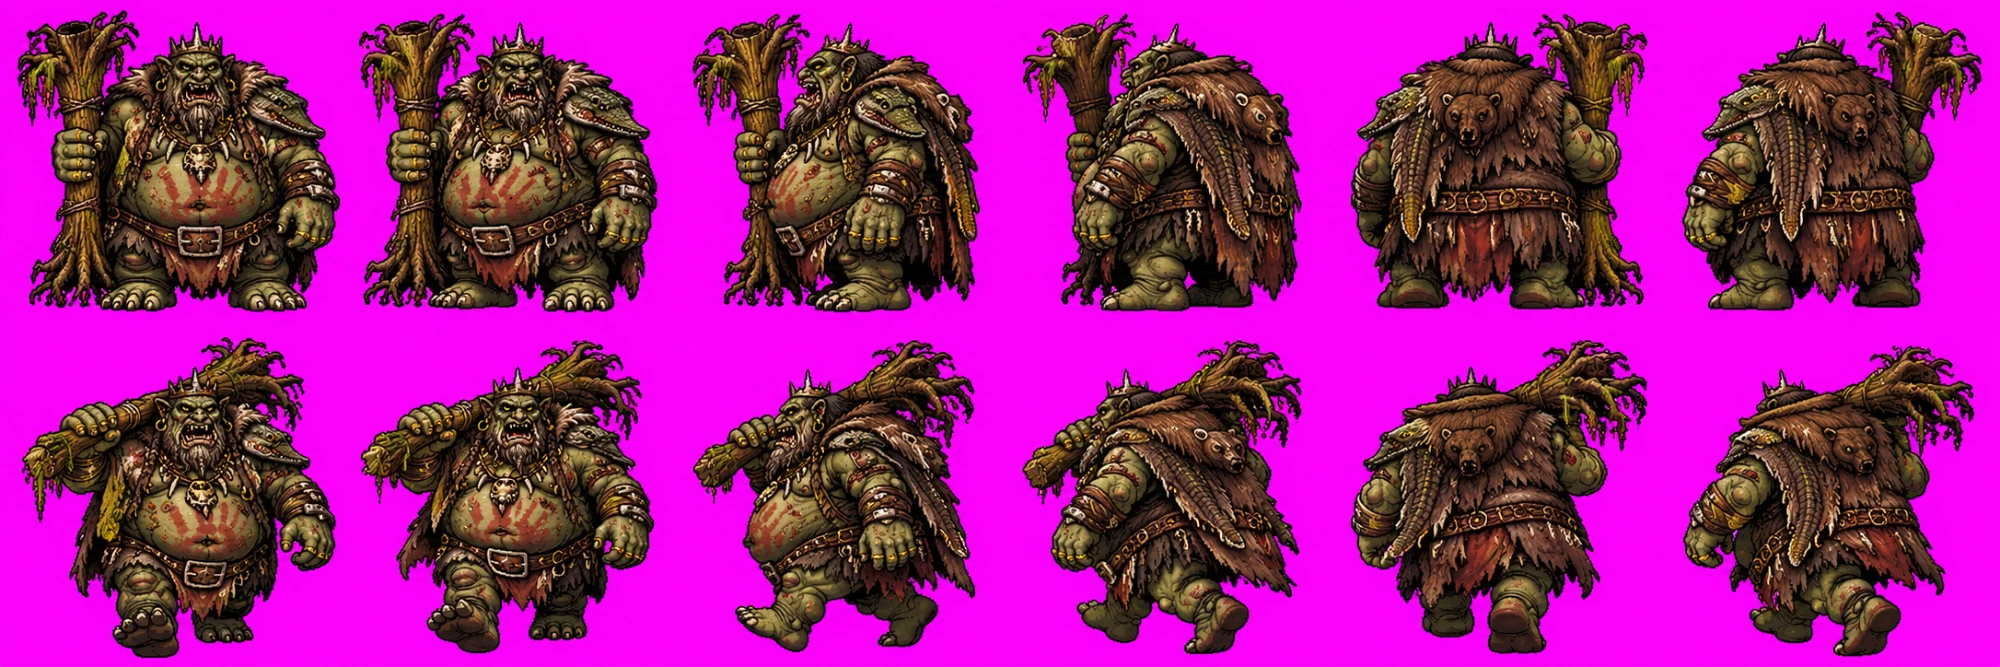
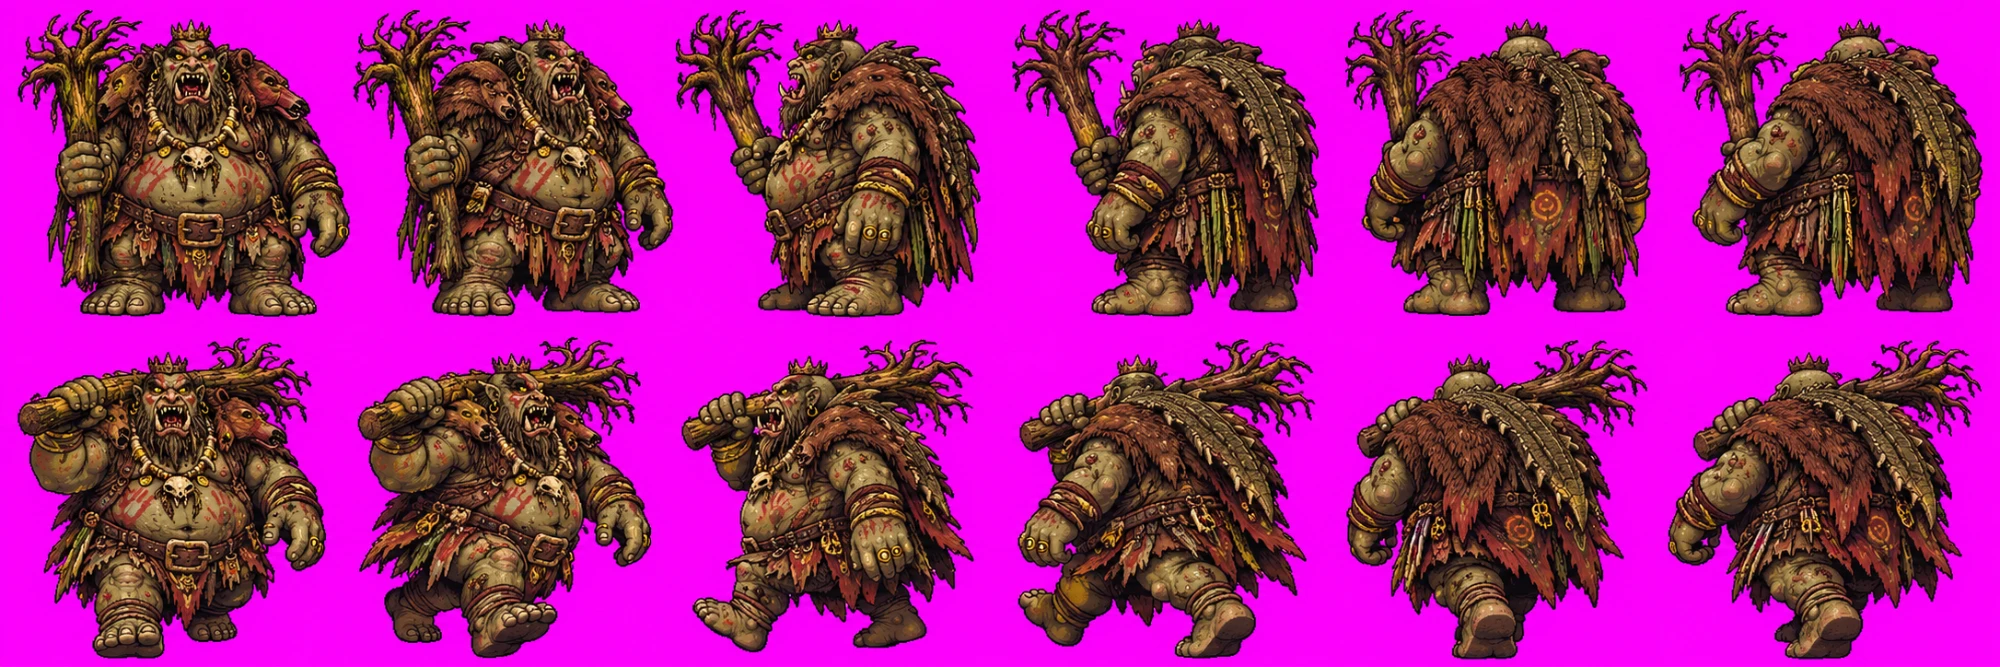
Arte nova: Orc capitão, Ogro jovem e a 2ª versão do Grumak com as folhas do ChatGPT
Claude-Session: https://claude.ai/code/session_017wBqbLW2E9gmPiXigBH63t

diff --git a/docs/arte/pantano-do-kosaradius/README.md b/docs/arte/pantano-do-kosaradius/README.md
@@ -15,7 +15,9 @@ monstro com folha usa a arte nova; sem folha, continua com a arte por código (`
 | Orc lanceiro (`orcSpearman`) | ✅ | — |
 | Orc arqueiro (`orcArcher`) | ✅ | — |
 | Orc berserker (`orcBerserker`) | ✅ (`--flip=8`: o perfil andando veio para a direita) | — |
-| Grumak, o Rei-Ogro (`ogreKing`) | ✅ | — |
+| Orc capitão (`orcCaptain`) | ✅ | — |
+| Ogro jovem (`ogreYoung`) | ✅ (`--flip=8`: o perfil andando veio para a direita) | — |
+| Grumak, o Rei-Ogro (`ogreKing`) | ✅ (2ª versão, com a coroa pequena e torta) | — |
 
 Sem a folha B, o golpe e o especial saem do perfil (com o bote que o jogo já dá no golpe) e a morte é o tombo de sempre.
 
